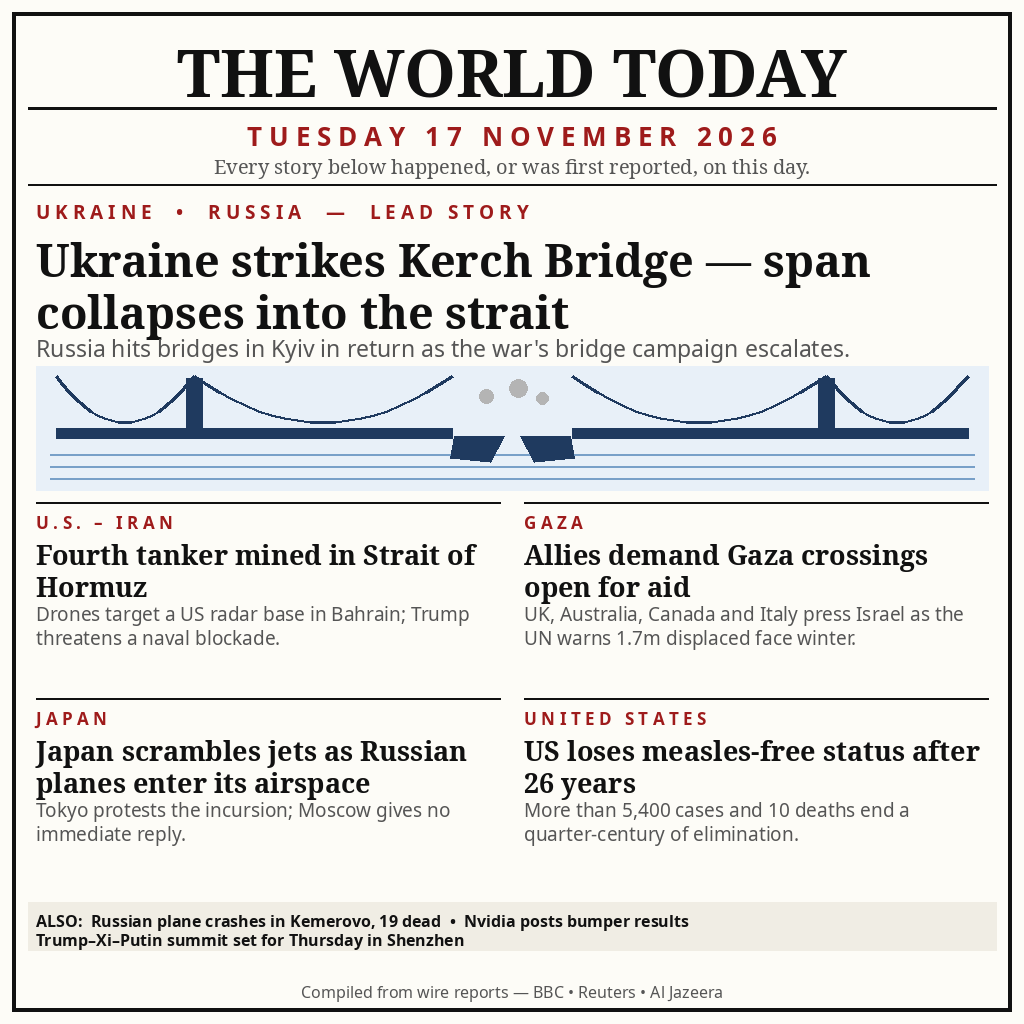
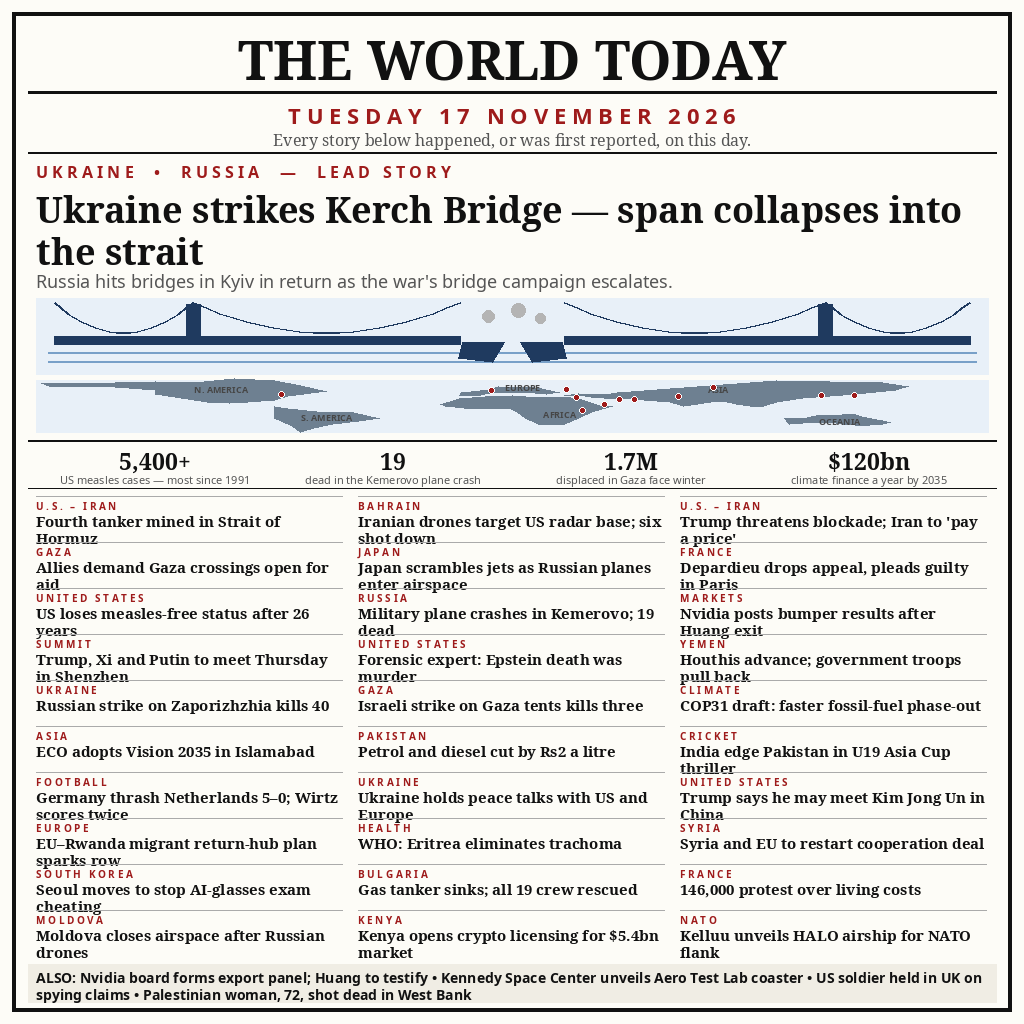
news-image-20261117: dense v2 front page — 31 stories, world map, day in figures

Changed region(s): [[0.0312, 0.0312, 0.9688, 1.0]]

diff --git a/build_image.py b/build_image.py
@@ -1,10 +1,13 @@
-"""Build the news-image-20261117 front page (1024x1024 PNG, PIL only).
+"""Build the news-image-20261117 v2 front page (1024x1024 PNG, PIL only).
 
-Layout: newspaper front page. Masthead + dateline, lead story with a drawn
-bridge illustration, 2x2 grid of further stories, bottom ticker, footer.
-All headline text is rendered with PIL so every letter is crisp.
+Dense newspaper front page: masthead + dateline, illustrated lead story,
+a world-map strip with story dots, a "day in figures" band, a 3x10 grid of
+30 short stories (31 stories + 4 ticker items in total), ticker footer.
+All text is rendered with PIL so every letter is crisp. Deterministic:
+same bytes on every run.
 """
-import textwrap
+import math
+
 from PIL import Image, ImageDraw, ImageFont
 
 W, H = 1024, 1024
@@ -15,6 +18,8 @@ MUTED = (85, 85, 85)
 NAVY = (31, 58, 95)
 WATER = (120, 160, 200)
 BAND = (240, 237, 228)
+MAPBG = (232, 240, 248)
+LAND = (110, 128, 145)
 
 SERIF_B = "/usr/share/fonts/truetype/noto/NotoSerif-Bold.ttf"
 SERIF = "/usr/share/fonts/truetype/noto/NotoSerif-Regular.ttf"
@@ -46,119 +51,221 @@ def spaced(text, n=1):
     return (" " * n).join(list(text))
 
 
-def draw_bridge(draw, x0, y0, x1, y1):
-    """Schematic suspension bridge with a broken middle span over water."""
-    draw.rectangle([x0, y0, x1, y1], fill=(232, 240, 248))
-    deck_y = y0 + 62
-    # water
-    for i, yy in enumerate(range(y0 + 88, y1 - 6, 12)):
-        draw.line([x0 + 14, yy, x1 - 14, yy], fill=WATER, width=2)
-    # towers
+def draw_bridge(d, x0, y0, x1, y1):
+    """Compact schematic suspension bridge, broken middle span, over water."""
+    d.rectangle([x0, y0, x1, y1], fill=MAPBG)
+    deck_y = y0 + 38
+    for yy in range(y0 + 54, y1 - 4, 9):
+        d.line([x0 + 12, yy, x1 - 12, yy], fill=WATER, width=2)
     for tx in (x0 + 150, x1 - 170):
-        draw.rectangle([tx, y0 + 12, tx + 16, deck_y], fill=NAVY)
-    # deck: left part intact, middle broken and dropped, right part intact
+        d.rectangle([tx, y0 + 6, tx + 14, deck_y], fill=NAVY)
     mid = (x0 + x1) // 2
-    draw.rectangle([x0 + 20, deck_y, mid - 60, deck_y + 10], fill=NAVY)
-    draw.rectangle([mid + 60, deck_y, x1 - 20, deck_y + 10], fill=NAVY)
-    # broken span pieces tilting into the water
-    draw.polygon([(mid - 58, deck_y + 8), (mid - 8, deck_y + 8),
-                  (mid - 22, deck_y + 34), (mid - 62, deck_y + 30)], fill=NAVY)
-    draw.polygon([(mid + 8, deck_y + 8), (mid + 58, deck_y + 8),
-                  (mid + 62, deck_y + 30), (mid + 22, deck_y + 34)], fill=NAVY)
-    # suspension cables (simple arcs as polylines)
-    def cable(ax, bx, peak_y):
+    d.rectangle([x0 + 18, deck_y, mid - 52, deck_y + 8], fill=NAVY)
+    d.rectangle([mid + 52, deck_y, x1 - 18, deck_y + 8], fill=NAVY)
+    d.polygon([(mid - 50, deck_y + 6), (mid - 8, deck_y + 6),
+               (mid - 20, deck_y + 26), (mid - 54, deck_y + 22)], fill=NAVY)
+    d.polygon([(mid + 8, deck_y + 6), (mid + 50, deck_y + 6),
+               (mid + 54, deck_y + 22), (mid + 20, deck_y + 26)], fill=NAVY)
+
+    def cable(ax, bx):
         pts = []
         for i in range(21):
             t = i / 20
             x = ax + (bx - ax) * t
-            y = peak_y + (deck_y - peak_y) * (4 * t * (1 - t)) * 0.9
+            y = y0 + 4 + (deck_y - y0 - 4) * (4 * t * (1 - t)) * 0.9
             pts.append((x, y))
-        draw.line(pts, fill=NAVY, width=3)
-    cable(x0 + 20, x0 + 158, y0 + 10)
-    cable(x0 + 158, mid - 60, y0 + 10)
-    cable(mid + 60, x1 - 162, y0 + 10)
-    cable(x1 - 162, x1 - 20, y0 + 10)
-    # smoke puffs over the break (small, light)
-    for cx, cy, r in ((mid - 26, y0 + 30, 7), (mid + 6, y0 + 22, 9), (mid + 30, y0 + 32, 6)):
-        draw.ellipse([cx - r, cy - r, cx + r, cy + r], fill=(180, 180, 180))
+        d.line(pts, fill=NAVY, width=2)
+    cable(x0 + 18, x0 + 157)
+    cable(x0 + 157, mid - 52)
+    cable(mid + 52, x1 - 163)
+    cable(x1 - 163, x1 - 18)
+    for cx, cy, r in ((mid - 24, y0 + 18, 6), (mid + 6, y0 + 12, 7), (mid + 28, y0 + 20, 5)):
+        d.ellipse([cx - r, cy - r, cx + r, cy + r], fill=(180, 180, 180))
+
+
+# ---- world map: coarse continent polygons in (lon, lat) ----
+CONTINENTS = [
+    [(-168, 66), (-140, 70), (-125, 72), (-110, 68), (-95, 80), (-80, 73),
+     (-70, 62), (-60, 47), (-75, 35), (-80, 25), (-90, 20), (-97, 16),
+     (-105, 20), (-115, 28), (-125, 40), (-125, 49), (-145, 60), (-165, 60)],
+    [(-80, 10), (-75, 5), (-60, -5), (-50, -5), (-40, -20), (-48, -28),
+     (-58, -35), (-65, -45), (-70, -55), (-73, -40), (-80, -20), (-80, -5)],
+    [(-17, 15), (-10, 30), (0, 35), (10, 37), (20, 32), (32, 31), (35, 28),
+     (43, 12), (48, 10), (40, -5), (35, -20), (30, -35), (20, -35),
+     (15, -20), (12, -5), (9, 4), (-8, 5), (-15, 10)],
+    [(-10, 36), (-9, 43), (-2, 48), (0, 50), (5, 58), (10, 57), (18, 56),
+     (21, 54), (28, 45), (23, 40), (19, 42), (12, 44), (3, 43), (-2, 37)],
+    [(30, 36), (35, 42), (45, 40), (50, 45), (60, 50), (70, 55), (80, 60),
+     (90, 65), (100, 70), (110, 75), (130, 72), (150, 70), (160, 60),
+     (155, 50), (140, 40), (130, 35), (120, 30), (110, 20), (105, 10),
+     (100, 8), (95, 15), (90, 22), (85, 20), (80, 15), (75, 8), (70, 20),
+     (60, 25), (55, 26), (50, 30), (45, 28), (40, 32), (35, 36)],
+    [(113, -22), (114, -30), (115, -35), (120, -34), (125, -32), (130, -32),
+     (135, -35), (140, -38), (145, -38), (150, -37), (153, -32), (150, -27),
+     (146, -20), (142, -15), (140, -12), (135, -12), (130, -13), (125, -14),
+     (120, -20), (114, -22)],
+]
+LABELS = [
+    ("N. AMERICA", -100, 56), ("S. AMERICA", -60, -14), ("EUROPE", 14, 60),
+    ("AFRICA", 28, -8), ("ASIA", 88, 56), ("OCEANIA", 134, -24),
+]
+DOTS = [
+    (30.5, 50.5), (56.5, 26.5), (50.6, 26.2), (34.5, 31.5), (139.7, 35.7),
+    (2.3, 48.9), (-77, 38.9), (86.1, 55.4), (73.1, 33.7), (45, 12.8),
+    (36.8, -1.3), (127, 37.5),
+]
+
+
+def draw_map(d, x0, y0, x1, y1):
+    d.rectangle([x0, y0, x1, y1], fill=MAPBG)
+
+    def proj(lon, lat):
+        x = x0 + (lon + 170) / 360.0 * (x1 - x0)
+        y = y0 + (75 - lat) / 130.0 * (y1 - y0)
+        return (x, y)
+    for poly in CONTINENTS:
+        d.polygon([proj(lon, lat) for lon, lat in poly], fill=LAND)
+    f_lab = font(SANS_B, 9)
+    for text, lon, lat in LABELS:
+        x, y = proj(lon, lat)
+        d.text((x - d.textlength(text, font=f_lab) / 2, y - 5), text,
+               font=f_lab, fill=(70, 70, 70))
+    for lon, lat in DOTS:
+        x, y = proj(lon, lat)
+        d.ellipse([x - 3, y - 3, x + 3, y + 3], fill=RED,
+                  outline=(255, 255, 255), width=1)
+
+
+LEAD_KICK = "UKRAINE  •  RUSSIA  —  LEAD STORY"
+LEAD_HEAD = "Ukraine strikes Kerch Bridge — span collapses into the strait"
+LEAD_SUB = "Russia hits bridges in Kyiv in return as the war's bridge campaign escalates."
+
+FIGURES = [
+    ("5,400+", "US measles cases — most since 1991"),
+    ("19", "dead in the Kemerovo plane crash"),
+    ("1.7M", "displaced in Gaza face winter"),
+    ("$120bn", "climate finance a year by 2035"),
+]
+
+GRID = [
+    ("U.S. – IRAN", "Fourth tanker mined in Strait of Hormuz"),
+    ("BAHRAIN", "Iranian drones target US radar base; six shot down"),
+    ("U.S. – IRAN", "Trump threatens blockade; Iran to 'pay a price'"),
+    ("GAZA", "Allies demand Gaza crossings open for aid"),
+    ("JAPAN", "Japan scrambles jets as Russian planes enter airspace"),
+    ("FRANCE", "Depardieu drops appeal, pleads guilty in Paris"),
+    ("UNITED STATES", "US loses measles-free status after 26 years"),
+    ("RUSSIA", "Military plane crashes in Kemerovo; 19 dead"),
+    ("MARKETS", "Nvidia posts bumper results after Huang exit"),
+    ("SUMMIT", "Trump, Xi and Putin to meet Thursday in Shenzhen"),
+    ("UNITED STATES", "Forensic expert: Epstein death was murder"),
+    ("YEMEN", "Houthis advance; government troops pull back"),
+    ("UKRAINE", "Russian strike on Zaporizhzhia kills 40"),
+    ("GAZA", "Israeli strike on Gaza tents kills three"),
+    ("CLIMATE", "COP31 draft: faster fossil-fuel phase-out"),
+    ("ASIA", "ECO adopts Vision 2035 in Islamabad"),
+    ("PAKISTAN", "Petrol and diesel cut by Rs2 a litre"),
+    ("CRICKET", "India edge Pakistan in U19 Asia Cup thriller"),
+    ("FOOTBALL", "Germany thrash Netherlands 5–0; Wirtz scores twice"),
+    ("UKRAINE", "Ukraine holds peace talks with US and Europe"),
+    ("UNITED STATES", "Trump says he may meet Kim Jong Un in China"),
+    ("EUROPE", "EU–Rwanda migrant return-hub plan sparks row"),
+    ("HEALTH", "WHO: Eritrea eliminates trachoma"),
+    ("SYRIA", "Syria and EU to restart cooperation deal"),
+    ("SOUTH KOREA", "Seoul moves to stop AI-glasses exam cheating"),
+    ("BULGARIA", "Gas tanker sinks; all 19 crew rescued"),
+    ("FRANCE", "146,000 protest over living costs"),
+    ("MOLDOVA", "Moldova closes airspace after Russian drones"),
+    ("KENYA", "Kenya opens crypto licensing for $5.4bn market"),
+    ("NATO", "Kelluu unveils HALO airship for NATO flank"),
+]
+
+TICKER = ("ALSO:  Nvidia board forms export panel; Huang to testify  •  "
+          "Kennedy Space Center unveils Aero Test Lab coaster  •  "
+          "US soldier held in UK on spying claims  •  "
+          "Palestinian woman, 72, shot dead in West Bank")
 
 
 def build(path):
     img = Image.new("RGB", (W, H), PAPER)
     d = ImageDraw.Draw(img)
-    # frame
     d.rectangle([12, 12, W - 13, H - 13], outline=INK, width=4)
-    # masthead
-    f_mast = font(SERIF_B, 66)
+
+    # masthead + dateline
+    f_mast = font(SERIF_B, 54)
     t = "THE WORLD TODAY"
-    d.text(((W - d.textlength(t, font=f_mast)) / 2, 26), t, font=f_mast, fill=INK)
-    d.line([28, 108, W - 28, 108], fill=INK, width=3)
-    # dateline
-    f_date = font(SANS_B, 26)
+    d.text(((W - d.textlength(t, font=f_mast)) / 2, 22), t, font=f_mast, fill=INK)
+    d.line([28, 92, W - 28, 92], fill=INK, width=3)
+    f_date = font(SANS_B, 22)
     t = spaced("TUESDAY 17 NOVEMBER 2026")
-    d.text(((W - d.textlength(t, font=f_date)) / 2, 118), t, font=f_date, fill=RED)
-    f_note = font(SERIF, 20)
+    d.text(((W - d.textlength(t, font=f_date)) / 2, 100), t, font=f_date, fill=RED)
+    f_note = font(SERIF, 16)
     t = "Every story below happened, or was first reported, on this day."
-    d.text(((W - d.textlength(t, font=f_note)) / 2, 152), t, font=f_note, fill=MUTED)
-    d.line([28, 184, W - 28, 184], fill=INK, width=2)
+    d.text(((W - d.textlength(t, font=f_note)) / 2, 128), t, font=f_note, fill=MUTED)
+    d.line([28, 152, W - 28, 152], fill=INK, width=2)
 
     # ---- lead story ----
-    y = 198
-    f_kick = font(SANS_B, 19)
-    d.text((36, y), spaced("UKRAINE  •  RUSSIA  —  LEAD STORY", 1), font=f_kick, fill=RED)
-    y += 30
-    f_head = font(SERIF_B, 45)
-    for line in wrap(d, "Ukraine strikes Kerch Bridge — span collapses into the strait", f_head, W - 72):
+    y = 160
+    f_kick = font(SANS_B, 16)
+    d.text((36, y), spaced(LEAD_KICK, 1), font=f_kick, fill=RED)
+    y += 24
+    f_head = font(SERIF_B, 36)
+    for line in wrap(d, LEAD_HEAD, f_head, W - 72)[:2]:
         d.text((36, y), line, font=f_head, fill=INK)
-        y += 52
-    f_sub = font(SANS, 23)
-    for line in wrap(d, "Russia hits bridges in Kyiv in return as the war's bridge campaign escalates.", f_sub, W - 72):
+        y += 42
+    f_sub = font(SANS, 18)
+    for line in wrap(d, LEAD_SUB, f_sub, W - 72)[:2]:
         d.text((36, y), line, font=f_sub, fill=MUTED)
-        y += 30
-    draw_bridge(d, 36, y + 4, W - 36, y + 128)
+        y += 24
+    draw_bridge(d, 36, y + 6, W - 36, y + 82)
+    y += 88
 
-    # ---- grid ----
-    gy = y + 140
-    stories = [
-        ("U.S. – IRAN", "Fourth tanker mined in Strait of Hormuz",
-         "Drones target a US radar base in Bahrain; Trump threatens a naval blockade."),
-        ("GAZA", "Allies demand Gaza crossings open for aid",
-         "UK, Australia, Canada and Italy press Israel as the UN warns 1.7m displaced face winter."),
-        ("JAPAN", "Japan scrambles jets as Russian planes enter its airspace",
-         "Tokyo protests the incursion; Moscow gives no immediate reply."),
-        ("UNITED STATES", "US loses measles-free status after 26 years",
-         "More than 5,400 cases and 10 deaths end a quarter-century of elimination."),
-    ]
-    col_w = (W - 72 - 24) // 2
-    row_h = 196
-    f_gkick = font(SANS_B, 17)
-    f_ghead = font(SERIF_B, 27)
-    f_gsub = font(SANS, 19)
-    for i, (kick, head, sub) in enumerate(stories):
-        cx = 36 + (i % 2) * (col_w + 24)
-        cy = gy + (i // 2) * row_h
-        d.line([cx, cy, cx + col_w, cy], fill=INK, width=2)
-        d.text((cx, cy + 8), spaced(kick, 1), font=f_gkick, fill=RED)
-        yy = cy + 34
+    # ---- world map strip ----
+    draw_map(d, 36, y, W - 36, y + 52)
+    y += 60
+
+    # ---- day in figures ----
+    d.line([28, y, W - 28, y], fill=INK, width=2)
+    f_num = font(SERIF_B, 23)
+    f_lab = font(SANS, 11)
+    col_w = (W - 72) // 4
+    for i, (num, lab) in enumerate(FIGURES):
+        cx = 36 + i * col_w
+        nw = d.textlength(num, font=f_num)
+        d.text((cx + (col_w - nw) / 2, y + 5), num, font=f_num, fill=INK)
+        for j, line in enumerate(wrap(d, lab, f_lab, col_w - 12)[:1]):
+            lw = d.textlength(line, font=f_lab)
+            d.text((cx + (col_w - lw) / 2, y + 32), line, font=f_lab, fill=MUTED)
+    y += 48
+    d.line([28, y, W - 28, y], fill=INK, width=1)
+
+    # ---- dense grid: 3 columns x 10 rows ----
+    y += 8
+    col_w = (W - 72 - 32) // 3
+    row_h = 46
+    f_gkick = font(SANS_B, 10)
+    f_ghead = font(SERIF_B, 15)
+    for i, (kick, head) in enumerate(GRID):
+        cx = 36 + (i % 3) * (col_w + 16)
+        cy = y + (i // 3) * row_h
+        d.line([cx, cy, cx + col_w, cy], fill=(170, 170, 170), width=1)
+        d.text((cx, cy + 3), spaced(kick, 1), font=f_gkick, fill=RED)
+        yy = cy + 14
         for line in wrap(d, head, f_ghead, col_w)[:2]:
             d.text((cx, yy), line, font=f_ghead, fill=INK)
-            yy += 32
-        for line in wrap(d, sub, f_gsub, col_w)[:2]:
-            d.text((cx, yy), line, font=f_gsub, fill=MUTED)
-            yy += 24
+            yy += 17
+    y += 10 * row_h
 
-    # ---- ticker (two lines) ----
-    ty = gy + 2 * row_h + 8
-    d.rectangle([28, ty, W - 28, ty + 48], fill=BAND)
-    f_tick = font(SANS_B, 16)
-    t1 = "ALSO:  Russian plane crashes in Kemerovo, 19 dead  •  Nvidia posts bumper results"
-    t2 = "Trump–Xi–Putin summit set for Thursday in Shenzhen"
-    d.text((36, ty + 7), t1, font=f_tick, fill=INK)
-    d.text((36, ty + 26), t2, font=f_tick, fill=INK)
-    # footer
-    f_foot = font(SANS, 16)
-    t = "Compiled from wire reports — BBC • Reuters • Al Jazeera"
-    d.text(((W - d.textlength(t, font=f_foot)) / 2, H - 44), t, font=f_foot, fill=MUTED)
+    # ---- ticker ----
+    ty = y + 8
+    d.rectangle([28, ty, W - 28, ty + 38], fill=BAND)
+    f_tick = font(SANS_B, 14)
+    lines = wrap(d, TICKER, f_tick, W - 72)[:2]
+    for j, line in enumerate(lines):
+        d.text((36, ty + 4 + j * 17), line, font=f_tick, fill=INK)
+    y = ty + 38
+    assert y <= 1006, f"layout overflow: ends at {y}"
+    print("layout ends at", y, "stories:", 1 + len(GRID), "+ ticker")
 
     img.save(path, "PNG", optimize=True)
     print("saved", path)

diff --git a/README.md b/README.md
@@ -4,7 +4,7 @@
 [![rank](https://make.fun/badge/news-image-20261117/Ysf30/news-image-20261117/rank.svg)](https://make.fun/bounty/news-image-20261117/leaderboard?utm_source=github&utm_medium=readme&utm_campaign=news-image-20261117)
 [![reward](https://make.fun/badge/news-image-20261117/Ysf30/news-image-20261117/reward.svg)](https://make.fun/bounty/news-image-20261117?utm_source=github&utm_medium=readme&utm_campaign=news-image-20261117)
 
-A one-page newspaper front page summing up the world's news of Tuesday 17 November 2026: Ukraine strikes the Kerch Bridge, a fourth tanker is mined in the Strait of Hormuz, allies demand Gaza crossings open, Japan scrambles jets, and the US loses measles-free status. Every headline is rendered as crisp text so the image reads on its own; the lead illustration (a broken suspension bridge) is drawn programmatically with PIL.
+A dense one-page newspaper front page summing up the world's news of Tuesday 17 November 2026: 31 stories from Ukraine's Kerch Bridge strike to the measles milestone, plus a world map marking where the news happened and the day in figures. Every headline is rendered as crisp text so the image reads on its own; the lead illustration (a broken suspension bridge) and the map are drawn programmatically with PIL.
 
 ## Run it
 
